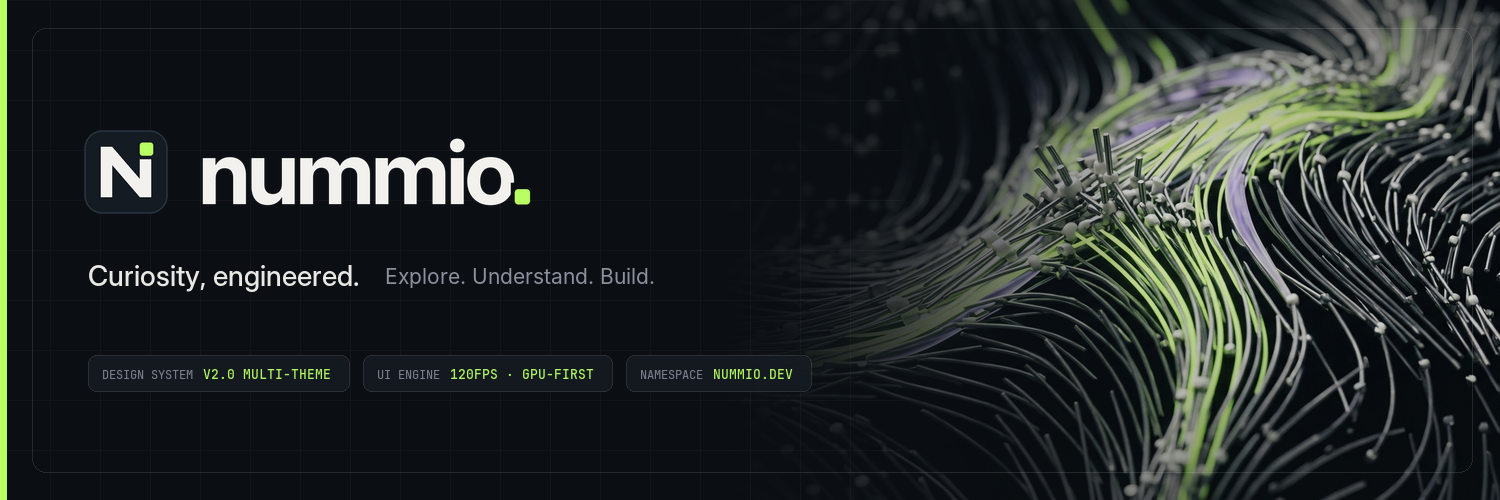
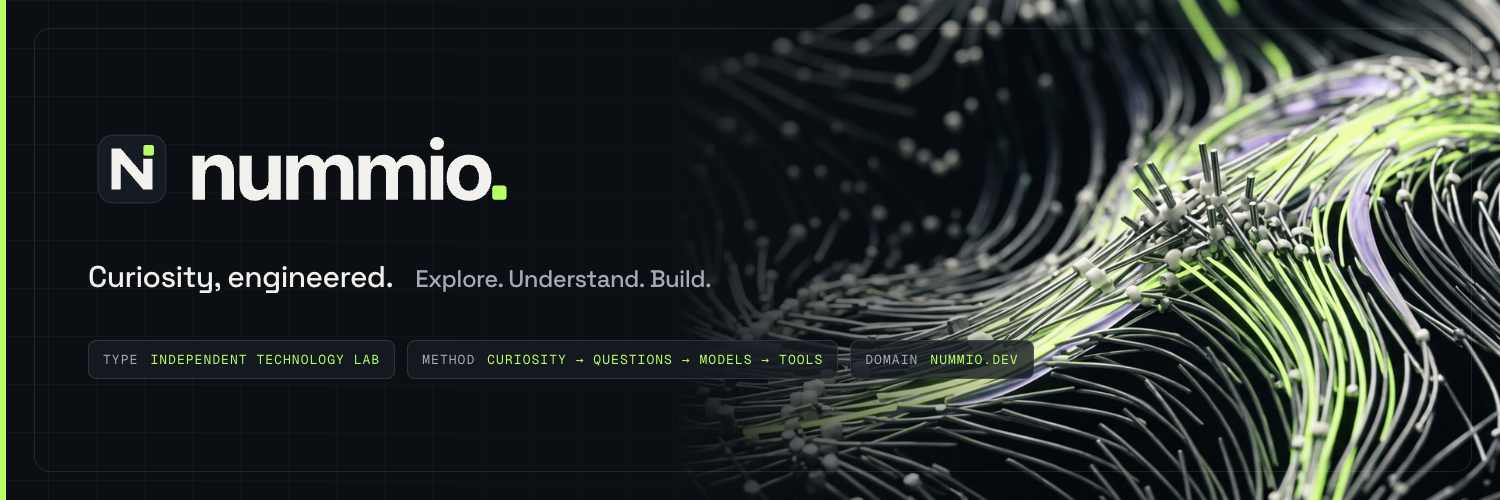
fix: align kit and social cards with the Independent technology lab positioning
- Kit README, guidelines and tokens.json state the positioning; high-
  performance UI/UX is the site's execution standard, not the brand
- Open Graph card and GitHub banner rebuilt from scripts/social/card.html
  (pnpm social:render) without the UI/UX and version copy
- Hide Nummio Labs and Nummio Research until they publish

diff --git a/scripts/social/card.html b/scripts/social/card.html
@@ -1,0 +1,162 @@
+<!doctype html>
+<!--
+  Social cards for the brand kit. `?kind=og` renders the 1200×630 Open Graph
+  card, `?kind=banner` the 1500×500 GitHub banner. Rendered to PNG by
+  `pnpm social:render`; all copy here must follow the brand positioning.
+-->
+<html lang="en">
+  <head>
+    <meta charset="utf-8" />
+    <link rel="preconnect" href="https://fonts.googleapis.com" />
+    <link rel="preconnect" href="https://fonts.gstatic.com" crossorigin />
+    <link
+      rel="stylesheet"
+      href="https://fonts.googleapis.com/css2?family=Space+Grotesk:wght@500;600&family=Geist+Mono:wght@400;500&display=block"
+    />
+    <style>
+      :root {
+        --graphite: #0b0f14;
+        --charcoal: #151b22;
+        --bone: #f2f1ed;
+        --steel: #a5a9b8;
+        --signal: #b7ff63;
+        --line: rgb(242 241 237 / 10%);
+      }
+      * { box-sizing: border-box; margin: 0; }
+      body {
+        width: 100vw;
+        height: 100vh;
+        overflow: hidden;
+        background: var(--graphite);
+        color: var(--bone);
+        font-family: "Space Grotesk", sans-serif;
+        -webkit-font-smoothing: antialiased;
+      }
+      .card { position: relative; width: 100%; height: 100%; overflow: hidden; }
+      .grid {
+        position: absolute;
+        inset: 0;
+        background:
+          linear-gradient(var(--line) 1px, transparent 1px) 0 0 / 48px 48px,
+          linear-gradient(90deg, var(--line) 1px, transparent 1px) 0 0 / 48px 48px;
+        opacity: 0.35;
+        mask-image: linear-gradient(to right, black, transparent 70%);
+      }
+      /* The kit's manifold wallpaper; oversized so its corner signature stays out of frame. */
+      .art {
+        position: absolute;
+        top: 0;
+        right: 0;
+        height: 100%;
+        overflow: hidden;
+        mask-image: linear-gradient(to right, transparent, black 45%);
+      }
+      .art img { height: 112%; width: auto; display: block; }
+      .frame { position: absolute; border: 1px solid var(--line); border-radius: 16px; }
+      .content { position: absolute; display: flex; flex-direction: column; align-items: flex-start; }
+      .mono {
+        font-family: "Geist Mono", monospace;
+        text-transform: uppercase;
+        letter-spacing: 0.08em;
+        font-variant-numeric: tabular-nums;
+      }
+      .accent { color: var(--signal); }
+      .muted { color: var(--steel); }
+      .pill {
+        display: inline-flex;
+        align-items: center;
+        gap: 10px;
+        border: 1px solid rgb(242 241 237 / 16%);
+        border-radius: 999px;
+        background: rgb(11 15 20 / 72%);
+        padding: 8px 16px;
+      }
+      .pill::before { content: ""; width: 10px; height: 10px; border-radius: 3px; background: var(--signal); }
+      .chip {
+        display: inline-flex;
+        gap: 12px;
+        border: 1px solid rgb(242 241 237 / 12%);
+        border-radius: 8px;
+        background: rgb(21 27 34 / 80%);
+        padding: 10px 14px;
+      }
+
+      /* Open Graph, 1200×630 */
+      [data-kind="og"] .bar { position: absolute; inset: 0 0 auto; height: 4px; background: var(--signal); }
+      [data-kind="og"] .art { width: 60%; mask-image: linear-gradient(to right, transparent, black 60%); }
+      [data-kind="og"] .frame { inset: 28px; }
+      [data-kind="og"] .content { inset: 68px 68px 60px; }
+      [data-kind="og"] .top { align-self: stretch; display: flex; justify-content: space-between; align-items: center; }
+      [data-kind="og"] .lockup { height: 56px; }
+      [data-kind="og"] .pill { font-size: 14px; }
+      [data-kind="og"] h1 { margin-top: auto; font-size: 104px; line-height: 0.95; font-weight: 600; letter-spacing: -0.05em; }
+      [data-kind="og"] .lede { margin-top: 26px; font-size: 25px; font-weight: 500; letter-spacing: -0.01em; }
+      [data-kind="og"] .foot {
+        margin-top: 44px;
+        width: 520px;
+        display: flex;
+        justify-content: space-between;
+        border-top: 1px solid rgb(242 241 237 / 16%);
+        padding-top: 18px;
+        font-size: 15px;
+      }
+
+      /* GitHub banner, 1500×500 */
+      [data-kind="banner"] .bar { position: absolute; inset: 0 auto 0 0; width: 6px; background: var(--signal); }
+      [data-kind="banner"] .art { width: 55%; }
+      [data-kind="banner"] .frame { inset: 28px 28px 28px 34px; }
+      [data-kind="banner"] .content { inset: 0 auto 0 88px; justify-content: center; }
+      [data-kind="banner"] .lockup { height: 96px; margin-left: -4px; }
+      [data-kind="banner"] .lede { margin-top: 40px; display: flex; gap: 22px; align-items: baseline; font-size: 30px; font-weight: 500; letter-spacing: -0.02em; }
+      [data-kind="banner"] .lede span { font-size: 24px; }
+      [data-kind="banner"] .chips { margin-top: 44px; display: flex; gap: 12px; font-size: 13px; }
+    </style>
+  </head>
+  <body>
+    <div class="card" id="card">
+      <div class="grid"></div>
+      <div class="art">
+        <img id="art" src="/assets/v2/imagery/wallpapers/wallpaper-03-computational-manifold-2560x1440.jpg" alt="" />
+      </div>
+      <div class="bar"></div>
+      <div class="frame"></div>
+
+      <template id="og">
+        <div class="content">
+          <div class="top">
+            <img class="lockup" src="/assets/v2/logo/nummio-lockup-dark.svg" alt="" />
+            <span class="pill mono">Independent technology lab</span>
+          </div>
+          <h1>Curiosity,<br /><span class="accent">engineered</span>.</h1>
+          <p class="lede muted">Software, products and applied research.<br />From question to tool.</p>
+          <div class="foot mono">
+            <span class="muted">Explore → Understand → Build</span>
+            <span class="accent">// nummio.dev</span>
+          </div>
+        </div>
+      </template>
+
+      <template id="banner">
+        <div class="content">
+          <img class="lockup" src="/assets/v2/logo/nummio-lockup-dark.svg" alt="" />
+          <p class="lede">Curiosity, engineered. <span class="muted">Explore. Understand. Build.</span></p>
+          <div class="chips mono">
+            <span class="chip"><span class="muted">Type</span><span class="accent">Independent technology lab</span></span>
+            <span class="chip"><span class="muted">Method</span><span class="accent">Curiosity → Questions → Models → Tools</span></span>
+            <span class="chip"><span class="muted">Domain</span><span class="accent">nummio.dev</span></span>
+          </div>
+        </div>
+      </template>
+    </div>
+    <script>
+      const kind = new URLSearchParams(location.search).get("kind") === "banner" ? "banner" : "og";
+      const card = document.getElementById("card");
+      card.dataset.kind = kind;
+      card.append(document.getElementById(kind).content.cloneNode(true));
+      const images = [...document.images].map((img) => img.decode().catch(() => {}));
+      Promise.all([document.fonts.ready, ...images]).then(() => {
+        window.__done = true;
+      });
+    </script>
+  </body>
+</html>

diff --git a/src/components/chapters/philosophy.tsx b/src/components/chapters/philosophy.tsx
@@ -10,7 +10,6 @@ const facts = [
   { term: "Type", detail: site.descriptor },
   { term: "Focus", detail: "Software, applied research" },
   { term: "Method", detail: "Explore → Understand → Build" },
-  { term: "Structure", detail: "Nummio · Nummio Labs · Nummio Research" },
   { term: "Domain", detail: site.domain },
 ] as const;
 

diff --git a/src/components/site-footer.tsx b/src/components/site-footer.tsx
@@ -51,8 +51,6 @@ export function SiteFooter() {
                   {site.domain}
                 </a>
               </li>
-              <li className="flex min-h-11 items-center">Nummio Labs</li>
-              <li className="flex min-h-11 items-center">Nummio Research</li>
             </ul>
           </div>
         </div>

diff --git a/assets/v2/system/brand-guidelines.md b/assets/v2/system/brand-guidelines.md
@@ -4,7 +4,9 @@
 - **Nome**: **Nummio** (grafado em caixa-baixa `nummio.` no wordmark tipográfico).
 - **Assinatura**: **Curiosity, engineered.**
 - **Narrativa Operacional**: `Explorar → Compreender → Construir` (`Explore. Understand. Build.`).
-- **Foco Estratégico (v2.0)**: Laboratório independente de engenharia de software, pesquisa aplicada e **interfaces de usuário de alta performance (120Hz Modern UI/UX)**.
+- **Posicionamento**: **Independent technology lab**. Hub de tecnologia e inovação: produtos próprios (SaaS), desenvolvimento para empresas e pesquisa aplicada.
+- **Método**: `Explore → Understand → Build`, que transforma `Curiosity → Questions → Models → Tools`.
+- **Nota (v2.0)**: os princípios de UI/UX de alta performance (seção 4) são o padrão de execução do nummio.dev e das interfaces da Nummio, não o posicionamento da marca.
 
 ---
 

diff --git a/assets/v2/README.md b/assets/v2/README.md
@@ -2,7 +2,8 @@
 
 Marca: **Nummio** · `nummio.dev`  
 Assinatura: **Curiosity, engineered.**  
-Posicionamento: **High-Performance Modern UI/UX Engineering, Software & Applied Research Lab**
+Posicionamento: **Independent technology lab**  
+Escopo do site: o nummio.dev é construído como uma interface de alta performance (Modern UI/UX engineering). Isso descreve o padrão de execução do site, não o posicionamento da marca.
 
 ---
 
